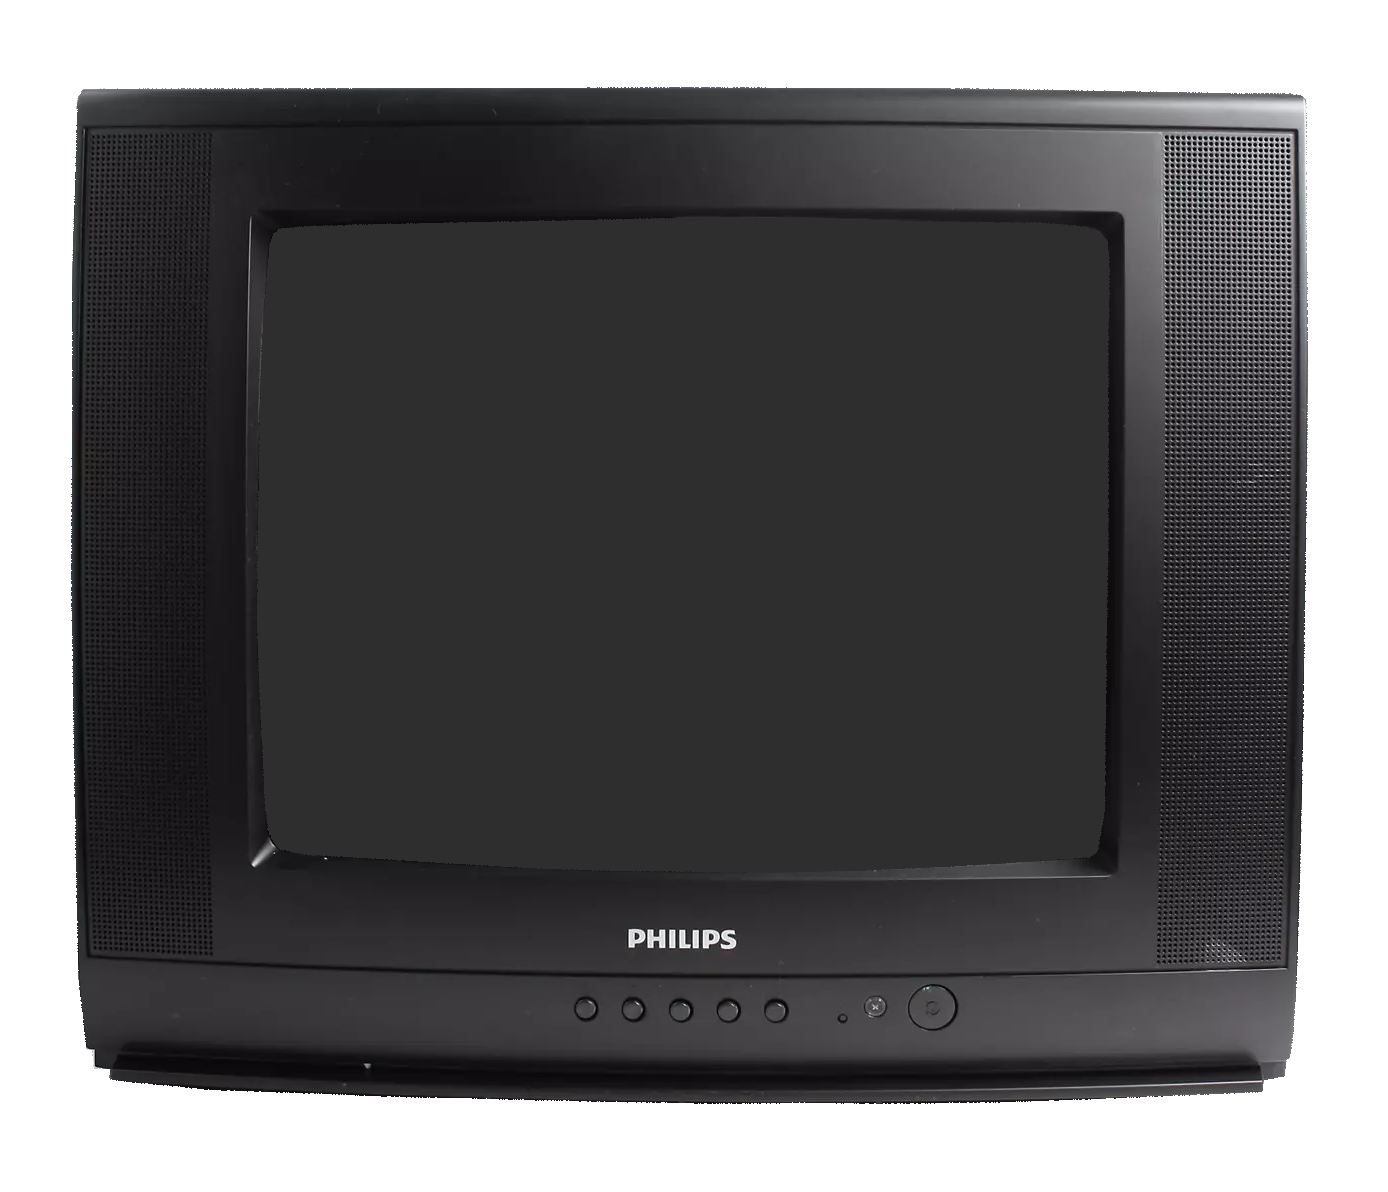
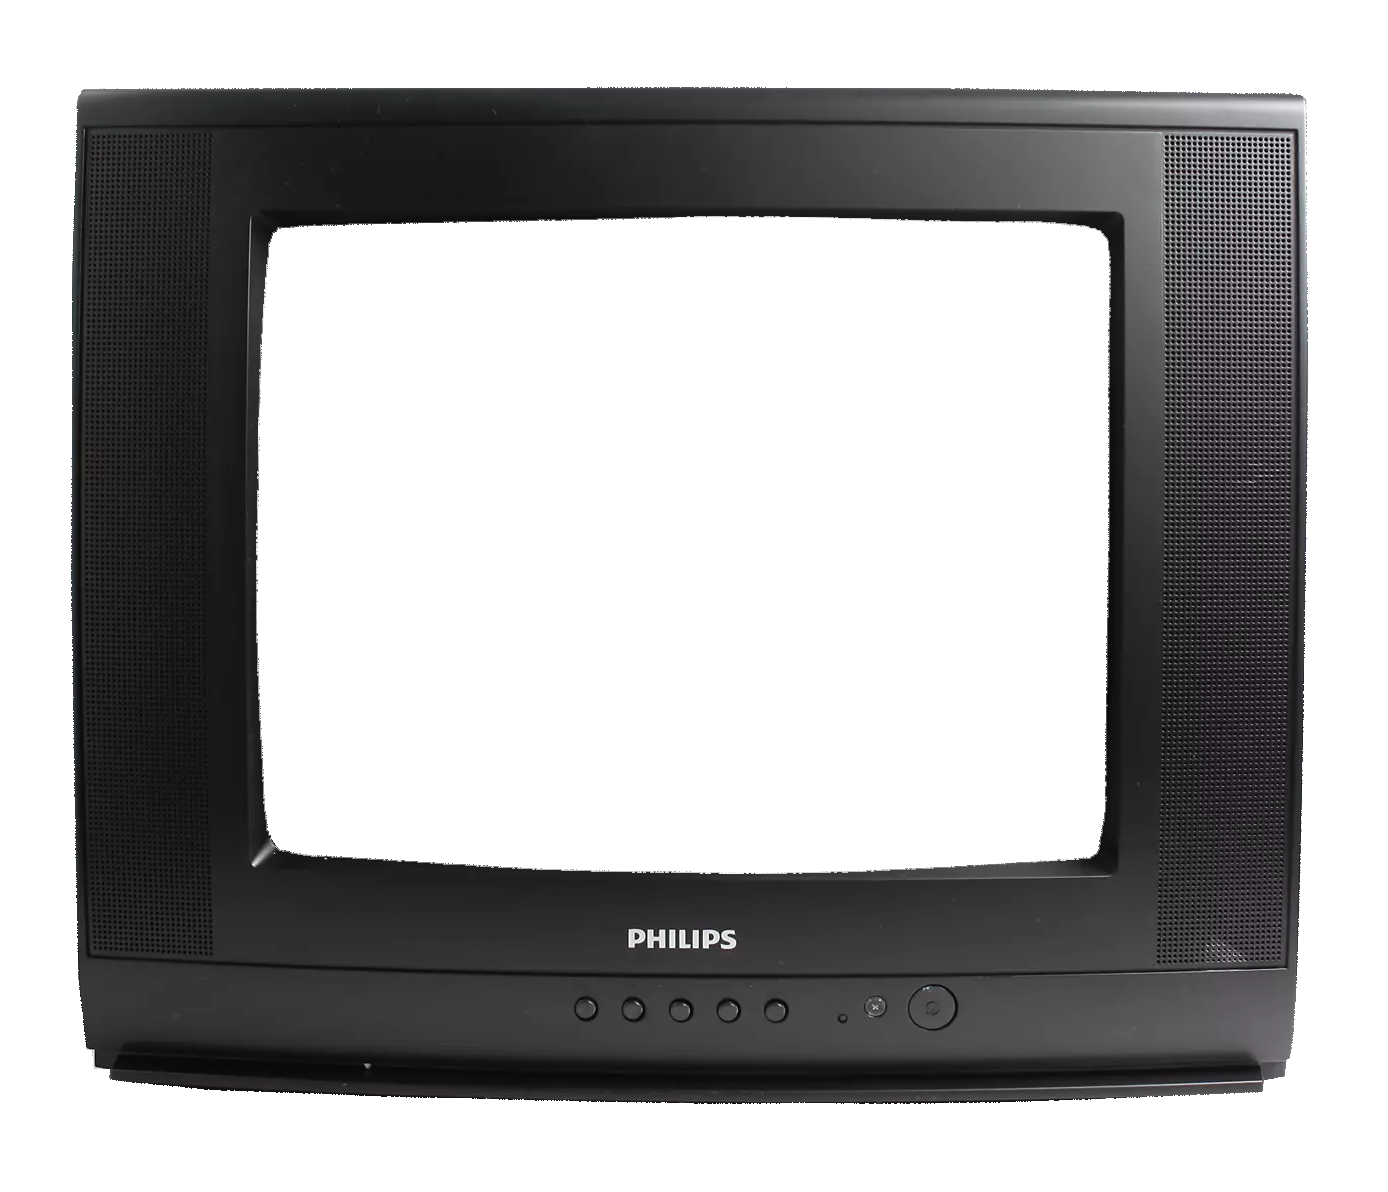
//

diff --git a/stylesheets/content.css b/stylesheets/content.css
@@ -104,7 +104,7 @@ section{
   cursor: pointer;
 }
 .basetv:hover{
-  background-image: url('../img/tvcolor.png');
+  background-image: url('../img/tvcolor2.png');
 }
 .baseplayer{
   position: absolute;
@@ -382,6 +382,16 @@ section{
   top: 14vh;
   left: 9vw;
   object-fit: cover;
+  z-index: -1;
+}
+.rectangle{
+  position: absolute;
+  width: 58.6vh;
+  height: 44.8vh;
+  top: 14vh;
+  left: 9vw;
+  background-color: #2E2E2E;
+  z-index: -2;
 }
 .tvtext{
   position: absolute;

diff --git a/index.html b/index.html
@@ -95,6 +95,7 @@
         <video src="img/video2.mp4" class ="video video2" id="video2"></video>
         <video src="img/video3.mp4" class ="video video3" id="video3"></video>
         <video src="img/video4.mp4" class ="video video4" id="video4"></video>
+        <div class="rectangle"></div>
       </div>
       <div class="tvtext brd1">
         <p class=text> Воспроизведи видео своих
